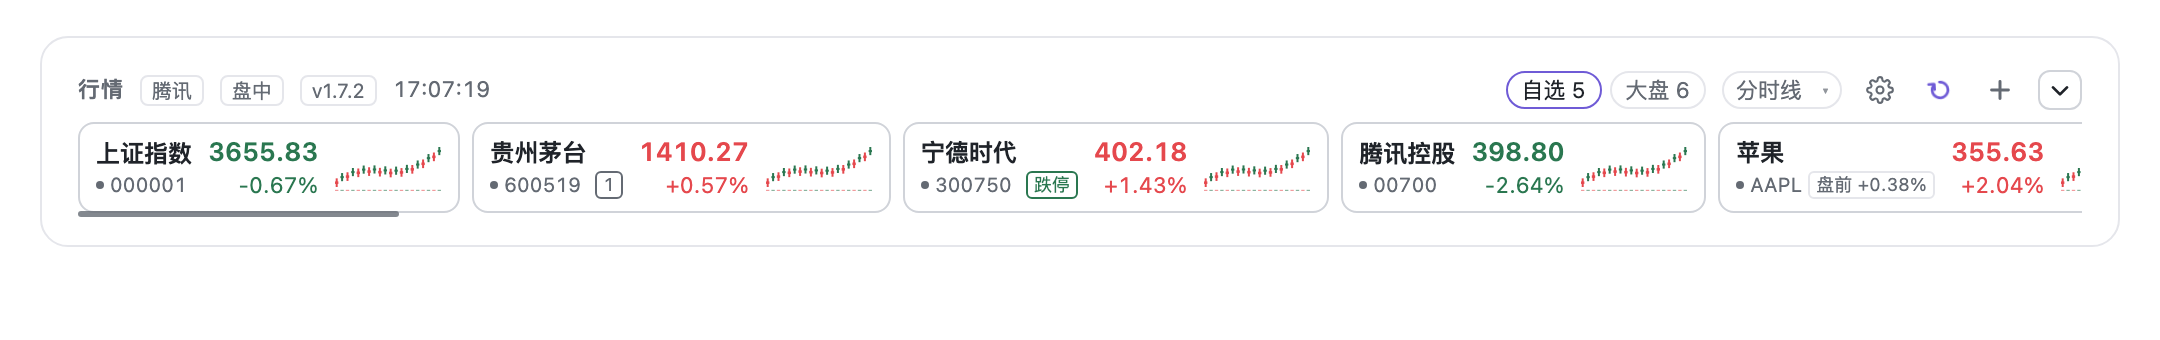
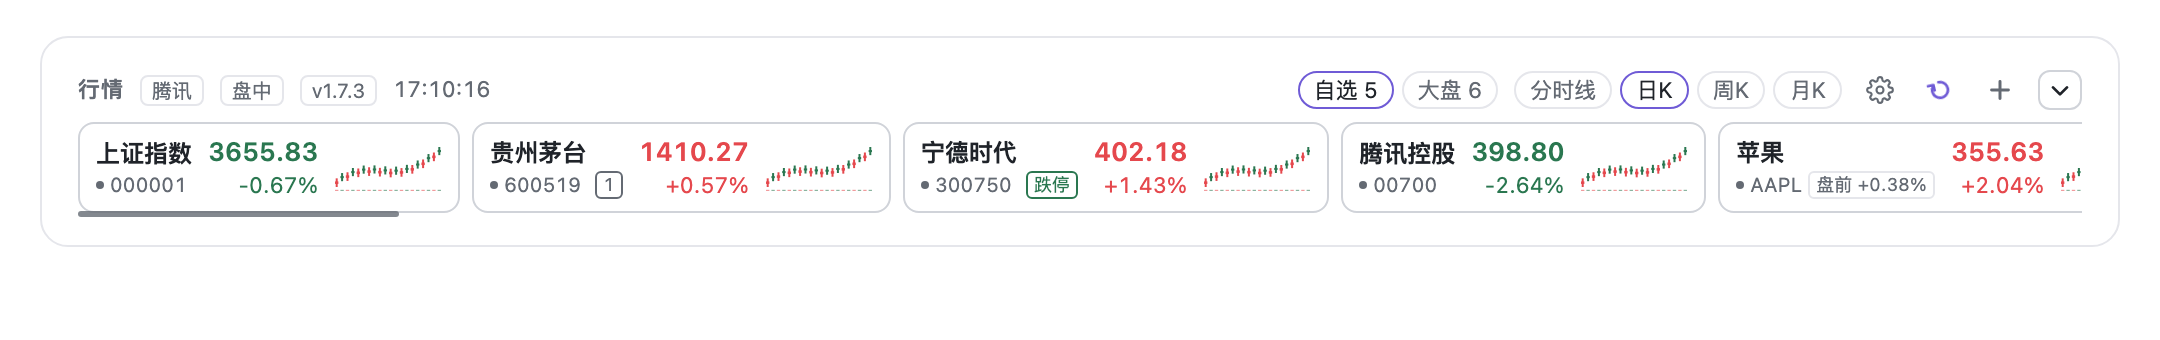
fix(client): show mini-chart types as group-style pills (1.7.3)
The dropdown replaced the boxes but still felt different from the watchlist
groups. The four choices are now separate pills using the same `.dshst-pill`
style as 自选/大盘: one active with the brand border, one click per type, no
menu. The control still hides with the mini chart and saves the same
`miniChartType` preference.

- Test: clicking 分时线 posts the preference and refetches with
  `type=intraday`. 79 tests.

Local commit only; not pushed.

Changed region(s): [[0.5894, 0.2059, 0.8685, 0.3235], [0.1861, 0.2353, 0.2481, 0.2941]]

diff --git a/client.js b/client.js
@@ -16,7 +16,7 @@ window.__ModuleLoader__.load({
     const { useCallback, useEffect, useMemo, useRef, useState } = React
 
     const NS = 'stockTicker'
-    const BUILD = 'v1.7.2'
+    const BUILD = 'v1.7.3'
     const ENDPOINT = '/dsh-stock-ticker'
     const COLLAPSE_KEY = 'dsh-stock-ticker:collapsed'
     const STYLE_ID = 'stock-ticker'
@@ -743,42 +743,11 @@ window.__ModuleLoader__.load({
   outline: none;
   border-color: var(--dsw-alias-brand-primary);
 }
-.dshst-miniType {
-  position: relative;
+.dshst-miniTypes {
   display: inline-flex;
   align-items: center;
+  gap: 4px;
   flex: 0 0 auto;
-  padding: 0 6px;
-  border: 1px solid var(--dsw-alias-border-l1);
-  border-radius: 999px;
-  color: var(--dsw-alias-label-secondary);
-  font-size: 11px;
-  line-height: 17px;
-}
-.dshst-miniType select {
-  appearance: none;
-  -webkit-appearance: none;
-  border: 0;
-  background: transparent;
-  color: inherit;
-  font: inherit;
-  line-height: 17px;
-  padding: 0 13px 0 0;
-  cursor: pointer;
-  outline: none;
-}
-.dshst-miniType::after {
-  content: "▾";
-  position: absolute;
-  right: 5px;
-  font-size: 9px;
-  opacity: 0.7;
-  pointer-events: none;
-}
-.dshst-miniType:hover,
-.dshst-miniType:focus-within {
-  border-color: var(--dsw-alias-brand-primary);
-  color: var(--dsw-alias-label-primary);
 }
 .dshst-icon:focus-visible,
 .dshst-card:focus-visible,
@@ -3559,20 +3528,26 @@ window.__ModuleLoader__.load({
             ? null
             : h(
                 'span',
-                { className: 'dshst-miniType', title: t('miniChartType') },
-                h(
-                  'select',
-                  {
-                    'aria-label': t('miniChartType'),
-                    value: prefs.miniChartType ?? 'day',
-                    onChange: (event) => savePrefs({ miniChartType: event.target.value }),
-                  },
-                  ...[
-                    ['intraday', t('miniIntraday')],
-                    ['day', t('miniDay')],
-                    ['week', t('miniWeek')],
-                    ['month', t('miniMonth')],
-                  ].map(([value, label]) => h('option', { key: value, value }, label)),
+                { className: 'dshst-miniTypes', role: 'group', 'aria-label': t('miniChartType') },
+                ...[
+                  ['intraday', t('miniIntraday')],
+                  ['day', t('miniDay')],
+                  ['week', t('miniWeek')],
+                  ['month', t('miniMonth')],
+                ].map(([value, label]) =>
+                  h(
+                    'button',
+                    {
+                      key: value,
+                      type: 'button',
+                      className: 'dshst-pill',
+                      title: `${t('miniChartType')} · ${label}`,
+                      'aria-pressed': (prefs.miniChartType ?? 'day') === value ? 'true' : 'false',
+                      'data-active': (prefs.miniChartType ?? 'day') === value ? 'true' : 'false',
+                      onClick: () => savePrefs({ miniChartType: value }),
+                    },
+                    label,
+                  ),
                 ),
               ),
           h(

diff --git a/CHANGELOG.md b/CHANGELOG.md
@@ -369,3 +369,12 @@ Settings discoverability and the options the strip was missing.
   the selected option, the tooltip names it, and it disappears with the mini
   chart. The settings row is unchanged.
 - Screenshots refreshed for the header/detail/settings surfaces.
+
+## 1.7.3 — 2026-11-13
+
+- The header mini-chart switch is now a row of pills like the watchlist groups
+  (`分时线 / 日K / 周K / 月K`), one active at a time, instead of a dropdown. It
+  reuses the group-pill style, hides with the mini chart, and saves the same
+  `miniChartType` preference.
+- Test: the active pill switches the preference and refetches with
+  `type=intraday`. 79 tests.

diff --git a/README.md b/README.md
@@ -2,7 +2,7 @@
 
 **中文** · [English](README.en.md)
 
-![version](https://img.shields.io/badge/version-1.7.2-blue)
+![version](https://img.shields.io/badge/version-1.7.3-blue)
 ![license](https://img.shields.io/badge/license-MIT-green)
 ![dsh](https://img.shields.io/badge/DSH-0.2.x-6f5bd6)
 ![data](https://img.shields.io/badge/data-Tencent%20%7C%20Sina%20%7C%20Eastmoney-orange)

diff --git a/README.en.md b/README.en.md
@@ -2,7 +2,7 @@
 
 [中文](README.md) · **English**
 
-![version](https://img.shields.io/badge/version-1.7.2-blue)
+![version](https://img.shields.io/badge/version-1.7.3-blue)
 ![license](https://img.shields.io/badge/license-MIT-green)
 ![dsh](https://img.shields.io/badge/DSH-0.2.x-6f5bd6)
 ![data](https://img.shields.io/badge/data-Tencent%20%7C%20Sina%20%7C%20Eastmoney-orange)
